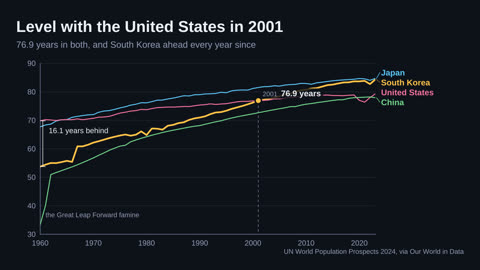
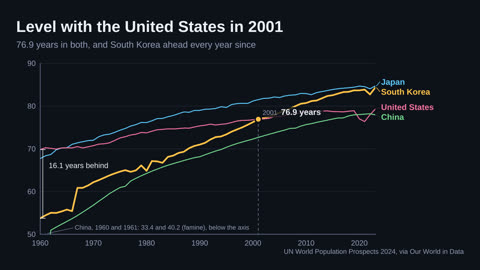
Catching Up: start the axis at 50, and check every claim in data.py
The y axis now runs 50 to 90, so the story is no longer squeezed into the
top third by China's 1960 value; a note on the chart says that China's
1960 and 1961 values (33.4 and 40.2, famine) are below the axis. The
closing headline says 30.6 more years, not "thirty".

data.py now asserts each statement the film makes, and that the data
block in the film is the CSV rounded to two decimals, so it fails if
they disagree.

Claude-Session: https://claude.ai/code/session_016y8NtRwbytznw2TA4YtQw9

diff --git a/gallery/catching-up/data.py b/gallery/catching-up/data.py
@@ -10,6 +10,7 @@ From 1950 OWID takes these values from the UN World Population Prospects
 (2024). Period life expectancy at birth, in years.
 """
 import csv
+import re
 from pathlib import Path
 
 HERE = Path(__file__).resolve().parent
@@ -40,6 +41,37 @@ ahead_before = [y for y in years if y < 2001 and kor[y] >= usa[y]]
 print(f"  years before 2001 with Korea level or ahead: {ahead_before or 'none'}")
 print(f"  Japan 2023: {jpn[2023]:.1f}   China 1960: {chn[1960]:.1f}   China 2023: {chn[2023]:.1f}")
 print(f"  ends 2023, Japan - Korea: {jpn[2023] - kor[2023]:.2f}   US - China: {usa[2023] - chn[2023]:.2f}")
+
+# Every statement the film makes, checked: this fails if the CSV and the film disagree.
+claims = [
+    ("In 1960 ... could expect 54 years", round(kor[1960]) == 54),
+    ("16.1 years behind (1960)", f"{usa[1960] - kor[1960]:.1f}" == "16.1"),
+    ("Level with the United States in 2001", level == [2001]),
+    ("76.9 years in both", f"{kor[2001]:.1f}" == f"{usa[2001]:.1f}" == "76.9"),
+    ("South Korea ahead every year since", not behind_after),
+    ("Today: 84 years", round(kor[2023]) == 84),
+    ("30.6 more than in 1960", f"{kor[2023] - kor[1960]:.1f}" == "30.6"),
+    ("5.0 years ahead of the United States in 2023", f"{kor[2023] - usa[2023]:.1f}" == "5.0"),
+    ("within half a year of Japan", 0 < jpn[2023] - kor[2023] < 0.5),
+    ("China, 1960 and 1961: 33.4 and 40.2 (famine), below the axis (50)",
+     f"{chn[1960]:.1f}" == "33.4" and f"{chn[1961]:.1f}" == "40.2"
+     and chn[1960] < 50 and chn[1961] < 50
+     and all(series[n][y] >= 50 for n in ORDER for y in years if (n, y) not in {("China", 1960), ("China", 1961)})),
+    ("the y axis reaches 90", all(series[n][y] <= 90 for n in ORDER for y in years)),
+]
+failed = [c for c, ok in claims if not ok]
+assert not failed, f"the film says what the data does not: {failed}"
+
+# And the data block in the film is this CSV, rounded to two decimals.
+film = (HERE / "catching-up.ps").read_text()
+for name in ORDER:
+    m = re.search(r"/" + PS_NAME[name] + r" \[([^\]]*)\] def", film)
+    assert m, f"no /{PS_NAME[name]} in the film"
+    got = [float(v) for v in m.group(1).split()]
+    want = [round(series[name][y], 2) for y in years]
+    assert got == want, f"/{PS_NAME[name]} in the film differs from the CSV"
+print(f"  checked: {len(claims)} statements, and the film's data block")
+
 print()
 print("% ---- data: printed by data.py (life expectancy at birth, years, 1960..2023) ----")
 for name in ORDER:

diff --git a/gallery/catching-up/README.md b/gallery/catching-up/README.md
@@ -33,13 +33,13 @@ value rounded to two decimals.
 
 | On screen | From the data |
 |---|---|
-| 54 years in 1960; 84.3 in 2023; "thirty more" | South Korea 53.76 in 1960, 84.33 in 2023: 30.6 more |
+| 54 years in 1960; 84 and 84.3 in 2023; 30.6 more | South Korea 53.76 in 1960, 84.33 in 2023: 30.57 more |
 | 16.1 years behind | United States 69.83 minus South Korea 53.76, in 1960 |
 | level in 2001, 76.9 in both | 76.9195 and 76.9194: the only year within 0.05 |
 | ahead every year since | South Korea above the United States in every year 2002 to 2023 (checked by `data.py`) |
 | 5.0 years ahead in 2023 | 84.33 against 79.30 |
 | within half a year of Japan | Japan 84.71 in 2023, 0.38 more |
-| the Great Leap Forward famine | China's 33.4 in 1960; Our World in Data's description of the series names this famine as one of the large post-war drops |
+| China, 1960 and 1961: 33.4 and 40.2 (famine), below the axis | China's values for those years. The y axis starts at 50 so the story is not squeezed into the top of the chart; China's line enters from below it in 1962 (51.0), and the note says what is cut. Our World in Data's description of the series names this famine, the Great Leap Forward, as one of the large post-war drops |
 
 While the tracer moves it reads the line between data points; its
 reading is the value at the year it writes, so a year is never shown
